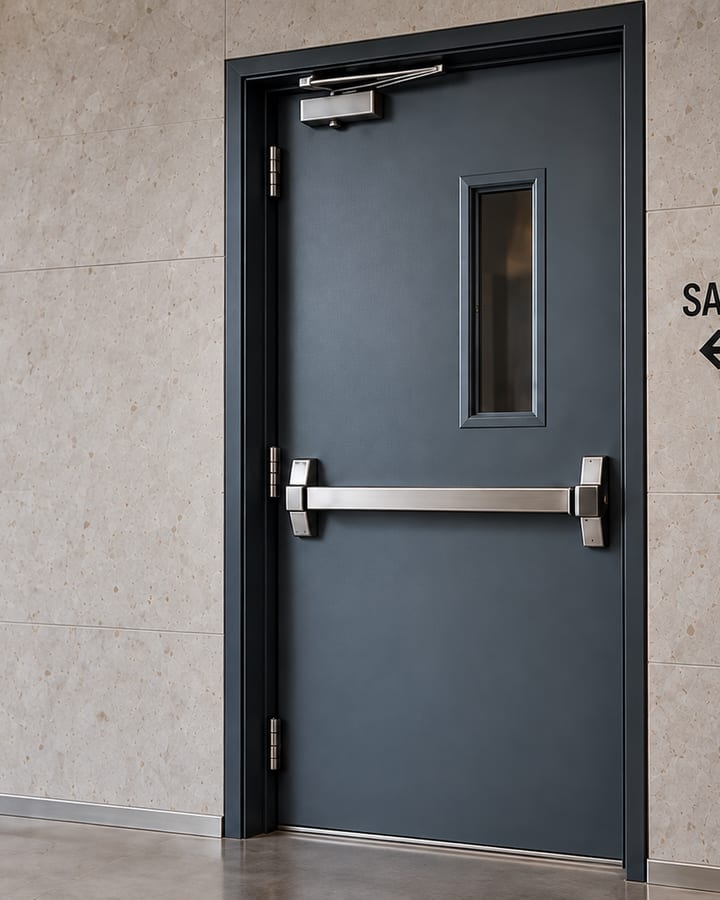
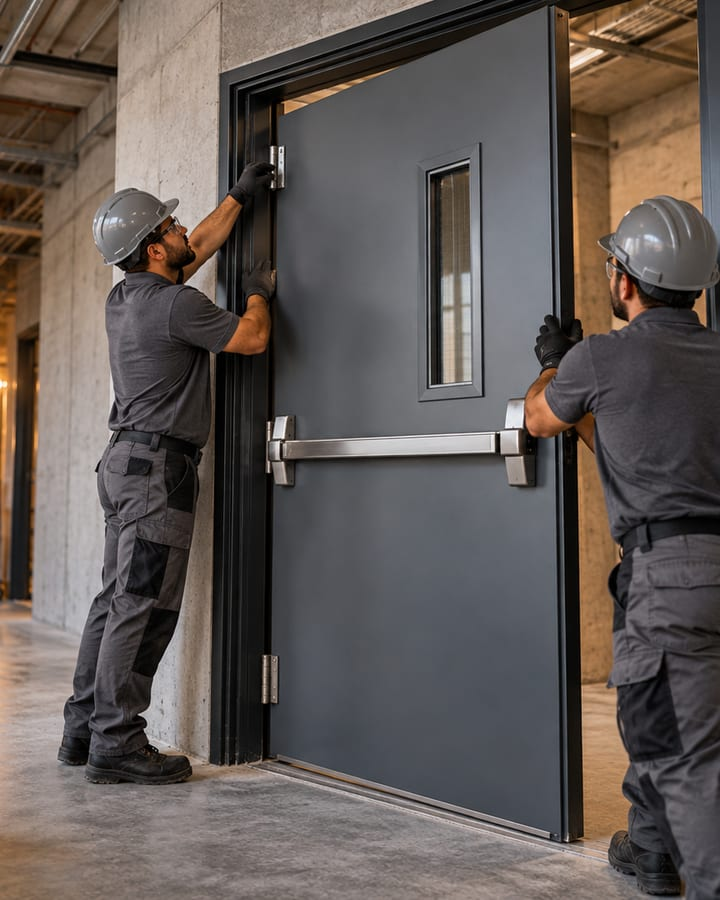
Fotos reais nos serviços 01, 03 e 04; porta instalada provisória em Manutenção
- origem/: 06-servico-instalacao, 07-servico-restauracao, 08-servico-barra-antipanico
- tools/processar-imagens.mjs gera os quatro slots em 720×900 (WebP + JPEG)
- index.html troca os SVGs "FOTO PENDENTE" pelas fotos; placeholders removidos
- assets/img/LEIA-ME.md e README: só falta a foto própria de Manutenção

Claude-Session: https://claude.ai/code/session_01Wrv1uguYVkZyZFSt7VfDGa

diff --git a/index.html b/index.html
@@ -272,9 +272,9 @@ j=d.createElement(s),dl=l!='dataLayer'?'&l='+l:'';j.async=true;j.src=
 
     <div class="services__media" id="servicesMedia" aria-hidden="true" data-reveal="right">
         <img src="/assets/img/servico-01-instalacao.webp" alt="" class="is-active" data-index="0" width="720" height="900" loading="lazy" decoding="async">
-        <img src="/assets/img/servico-02-manutencao.svg" alt="" data-index="1" width="720" height="900" loading="lazy" decoding="async">
-        <img src="/assets/img/servico-03-restauracao.svg" alt="" data-index="2" width="720" height="900" loading="lazy" decoding="async">
-        <img src="/assets/img/servico-04-barras.svg" alt="" data-index="3" width="720" height="900" loading="lazy" decoding="async">
+        <img src="/assets/img/servico-02-manutencao.webp" alt="" data-index="1" width="720" height="900" loading="lazy" decoding="async">
+        <img src="/assets/img/servico-03-restauracao.webp" alt="" data-index="2" width="720" height="900" loading="lazy" decoding="async">
+        <img src="/assets/img/servico-04-barras.webp" alt="" data-index="3" width="720" height="900" loading="lazy" decoding="async">
     </div>
   </section>
 

diff --git a/assets/img/LEIA-ME.md b/assets/img/LEIA-ME.md
@@ -7,7 +7,7 @@
 
 ```bash
 npm run imagens        # processa origem/ → assets/img/ (redimensiona, gera WebP)
-npm run placeholders   # regera só os marcadores das fotos que ainda faltam
+npm run placeholders   # regera o favicon e o ícone do site
 ```
 
 Para trocar uma foto: substitua o arquivo em `origem/` e rode `npm run imagens`.
@@ -16,13 +16,10 @@ Para trocar uma foto: substitua o arquivo em `origem/` e rode `npm run imagens`.
 
 | Slot | Arquivo atual | O que precisa |
 |---|---|---|
-| Serviço 02 — Manutenção | `servico-02-manutencao.svg` | foto 720×900 (retrato 4:5) |
-| Serviço 03 — Restauração | `servico-03-restauracao.svg` | foto 720×900 |
-| Serviço 04 — Barras antipânico | `servico-04-barras.svg` | foto 720×900 |
+| Serviço 02 — Manutenção | `servico-02-manutencao.webp` (provisório: foto da porta instalada) | foto própria de manutenção, retrato ou paisagem, mínimo ~1100 px de altura |
 
-Esses três aparecem no site com a etiqueta "FOTO PENDENTE". Ao enviá-las, coloque em
-`origem/` e acrescente as linhas correspondentes em `tools/processar-imagens.mjs`
-(o serviço 01 já está lá e serve de modelo).
+Ao enviá-la, coloque em `origem/` e troque a origem da linha `servico-02-manutencao` em
+`tools/processar-imagens.mjs`.
 
 Opcional: `apple-touch-icon.png` (180×180) para o atalho no iOS.
 
@@ -34,7 +31,10 @@ Opcional: `apple-touch-icon.png` (180×180) para o atalho no iOS.
 |---|---|---|
 | Hero (desktop) | `01-hero-desktop.png` | `hero-desktop.webp` + `@1200` |
 | Hero (celular) | `02-hero-mobile.png` | `hero-mobile.webp` + `@768` |
-| Serviço 01 | `03-porta-instalada.png` | `servico-01-instalacao.webp` |
+| Serviço 01 — Instalação | `06-servico-instalacao.png` | `servico-01-instalacao.webp` |
+| Serviço 02 — Manutenção (provisório) | `03-porta-instalada.png` | `servico-02-manutencao.webp` |
+| Serviço 03 — Restauração | `07-servico-restauracao.png` | `servico-03-restauracao.webp` |
+| Serviço 04 — Barras antipânico | `08-servico-barra-antipanico.png` | `servico-04-barras.webp` |
 | CTA de contato | `04-porta-cta-detalhe.png` | `cta-porta-detalhe.webp` |
 | Compartilhamento | `01-hero-desktop.png` | `og-apoio-porta-corta-fogo.jpg` (1200×630) |
 

diff --git a/README.md b/README.md
@@ -50,7 +50,7 @@ assets/img/                imagens servidas (derivadas) — ver assets/img/LEIA-
 origem/                    imagens originais, intocadas
 tools/processar-imagens.mjs    origem/ → assets/img/ (resize, WebP, logo claro)
 tools/gerar-blog.mjs           conteudo/blog/artigos.json → blog/ + sitemap.xml
-tools/gerar-placeholders.mjs   marcadores das fotos que ainda faltam
+tools/gerar-placeholders.mjs   favicon e ícones do site
 tools/atualizar-gsap.mjs       recopia o GSAP de node_modules para assets/vendor
 robots.txt, sitemap.xml, site.webmanifest
 ```
@@ -164,8 +164,8 @@ completo (`streetAddress`, `postalCode`), horário de atendimento, CNPJ/razão s
 
 ### Pendências antes de publicar
 
-1. **Três fotos de serviço** (Manutenção, Restauração, Barras antipânico) — ver
-   `assets/img/LEIA-ME.md`. Hoje esses slots mostram "FOTO PENDENTE".
+1. **Foto de Manutenção** (serviço 02) — ver `assets/img/LEIA-ME.md`. Hoje o slot usa,
+   provisoriamente, a foto da porta instalada.
 2. **Endereço completo** no JSON-LD (`streetAddress`, `postalCode`) — hoje só
    constam cidade e estado.
 3. **CNPJ / razão social** no rodapé, se aplicável.
